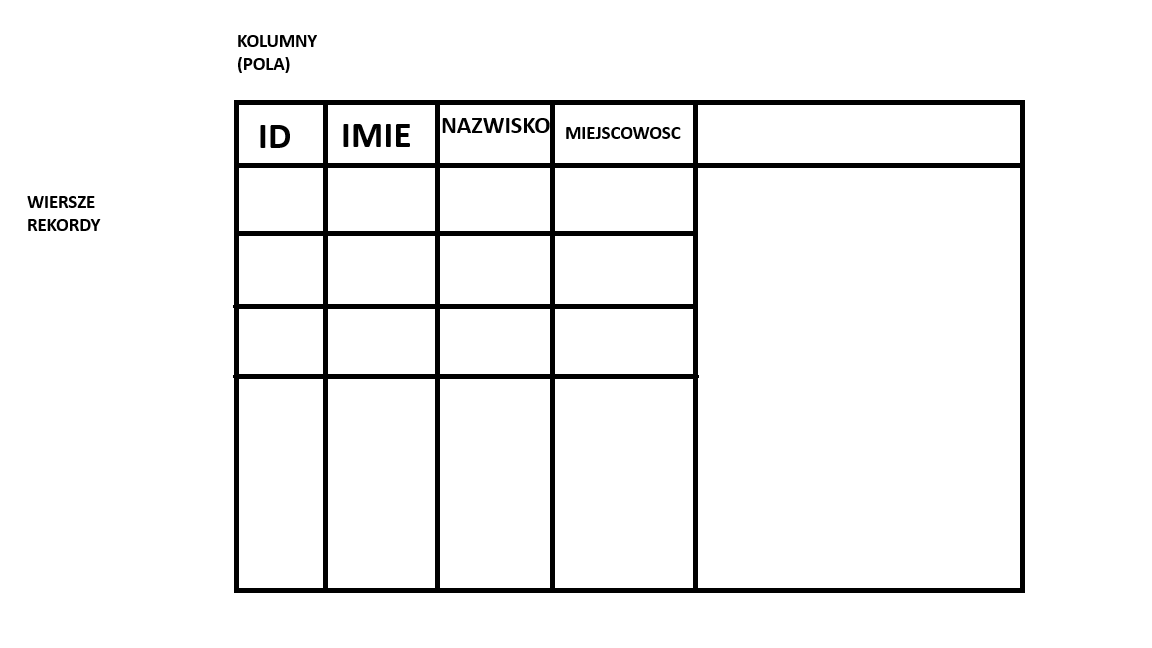
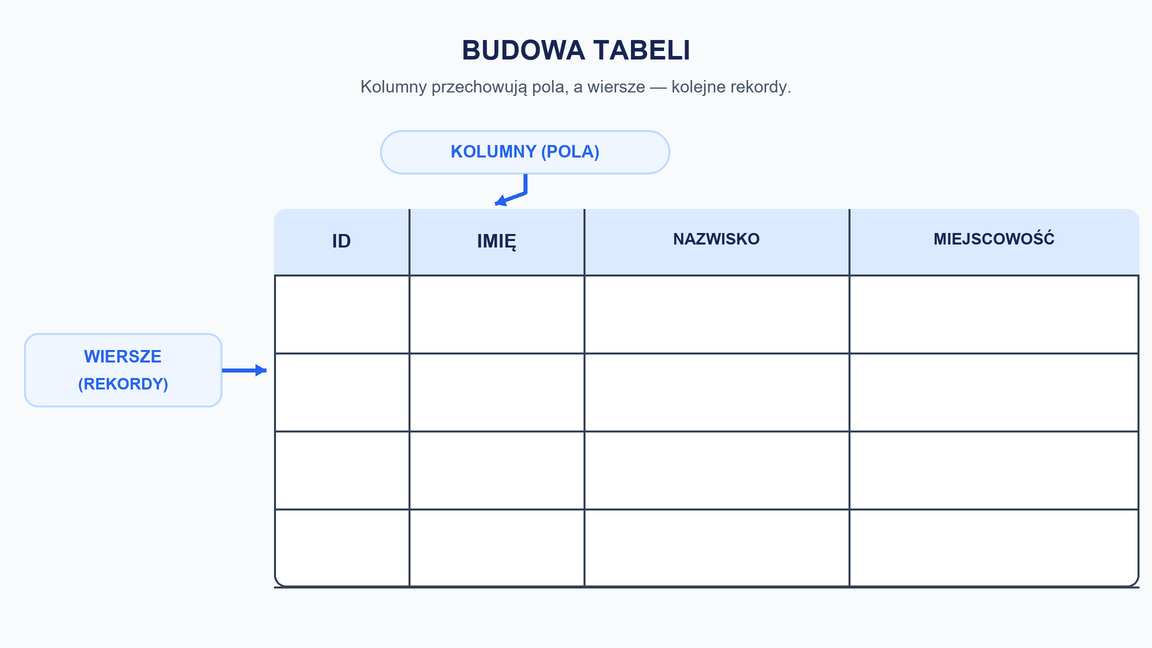
Popraw notatki i materiały lekcji

diff --git a/style.css b/style.css
@@ -175,6 +175,13 @@ h1 {
   border-color: var(--accent);
 }
 
+@media (min-width: 769px) and (max-width: 780px) {
+  .tiles {
+    grid-template-columns: repeat(2, minmax(220px, 220px));
+    max-width: 500px;
+  }
+}
+
 .notes-page {
   display: grid;
   grid-template-columns: 300px 1fr;
